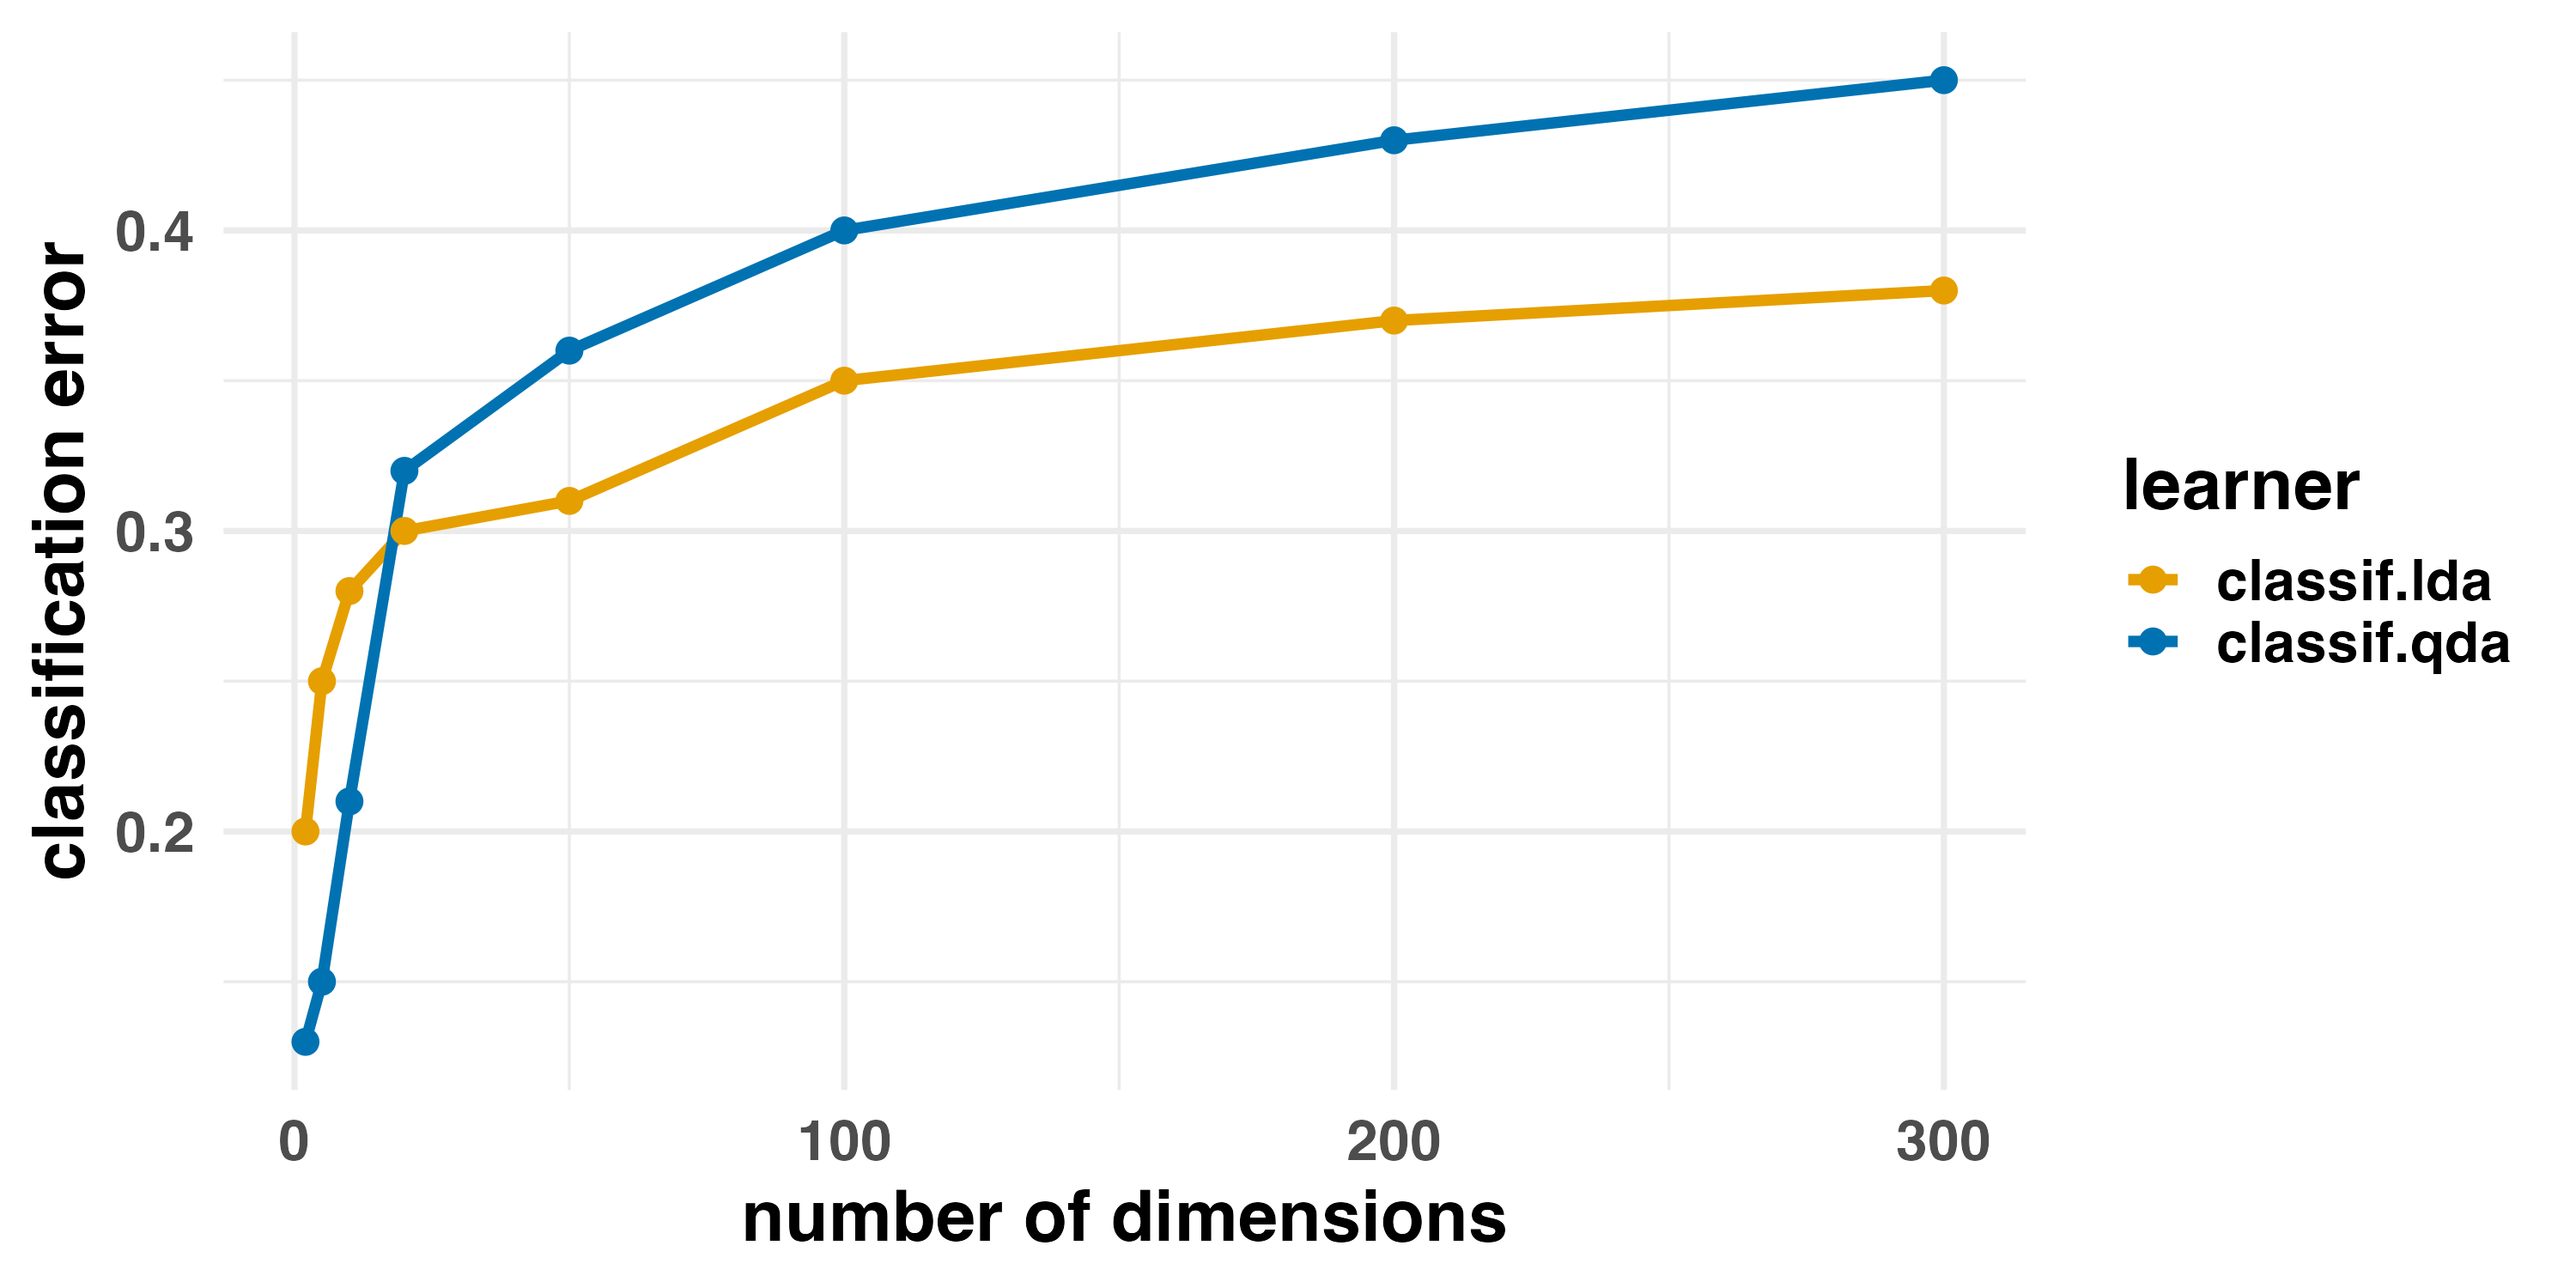
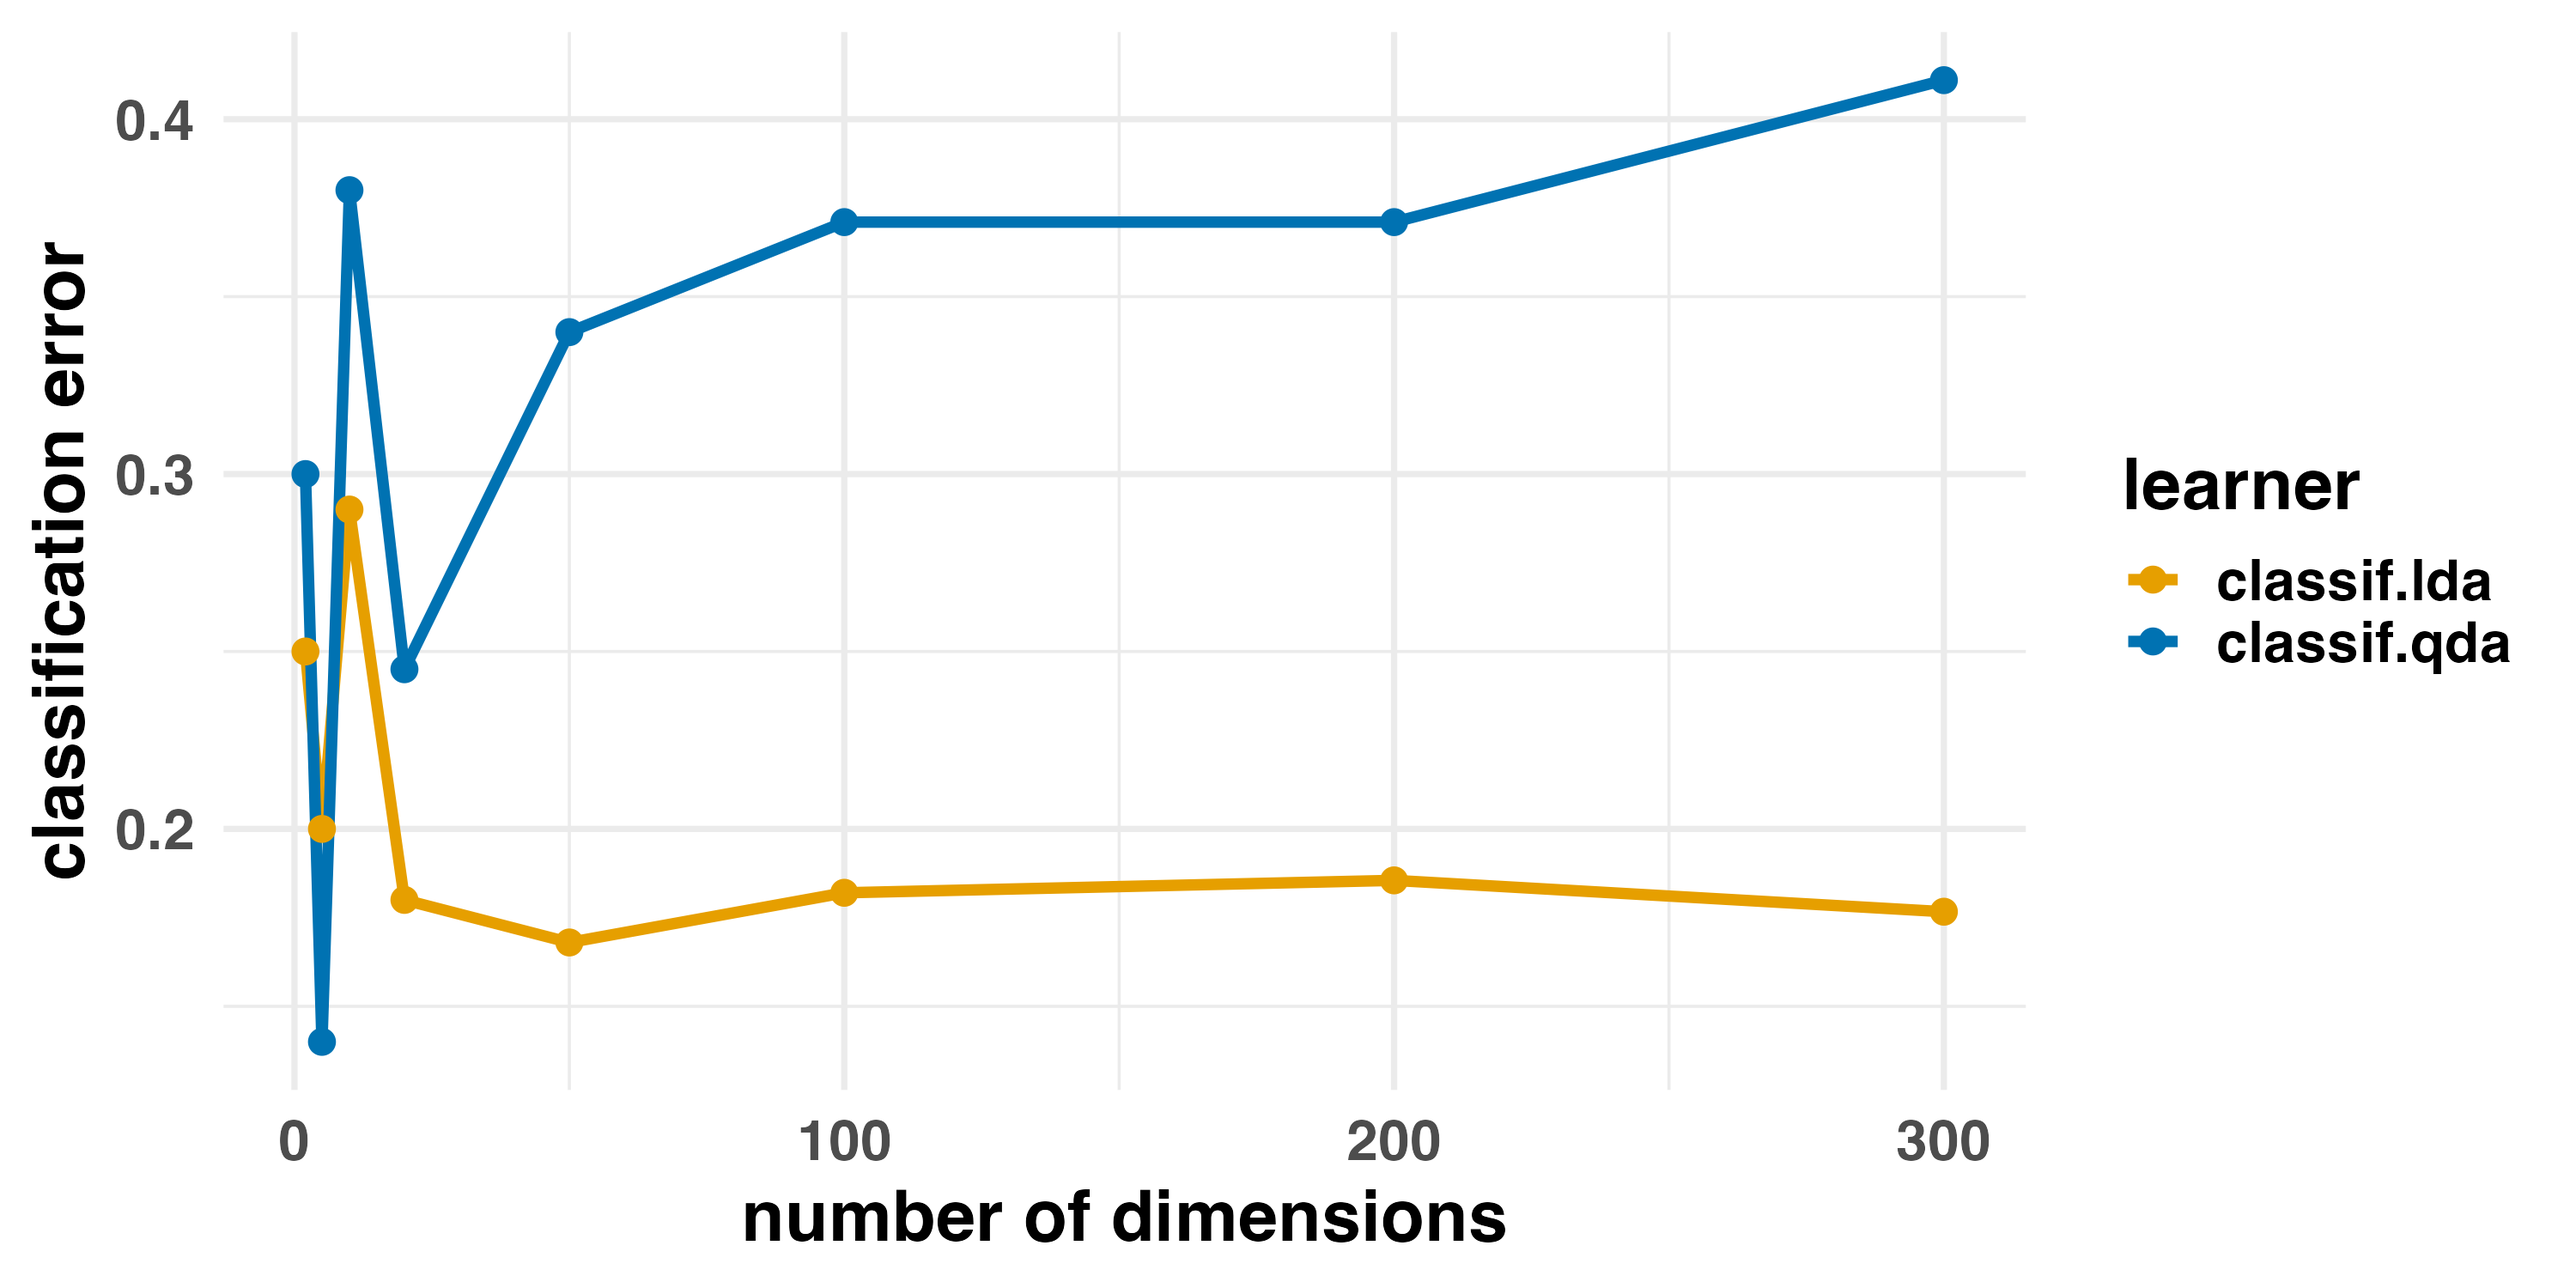
better example, updated cod

diff --git a/slides/supervised-classification/slides-classification-discranalysis.tex b/slides/supervised-classification/slides-classification-discranalysis.tex
@@ -83,7 +83,7 @@ and show that this can be written as a linear function of $\xv$.
   
 \end{vbframe}
 
-\begin{vbframe}{Proofing linearity of LDA}
+\begin{vbframe}{Proving linearity of LDA}
 \begin{eqnarray*}
 & \pik \cdot \pdfxyk \\
 \propto& \textcolor{orange}{\pik} \exp\left(\textcolor{blue}{- \frac{1}{2} \xv^T\Sigma^{-1}\xv} \textcolor{orange}{- \frac{1}{2} \muk^T \Sigma^{-1} \muk} + \xv^T \textcolor{purple}{\Sigma^{-1} \muk} \right) \\
@@ -146,24 +146,24 @@ Parameters are estimated in a straightforward manner by:\\
 
 \begin{vbframe}{Parameter estimation example}
 \begin{small}
-E.g., for a simple two-class, 2-dimensional dataset: \\
-Class 1: $\mathbf{x}_1 = \begin{pmatrix} 1 \\ 2 \end{pmatrix}, \mathbf{x}_2 = \begin{pmatrix} 2 \\ 3 \end{pmatrix}, \mathbf{x}_3 = \begin{pmatrix} 3 \\ 4 \end{pmatrix}$\\
-Class 2: $\mathbf{x}_4 = \begin{pmatrix} 6 \\ 8 \end{pmatrix}, \mathbf{x}_5 = \begin{pmatrix} 7 \\ 9 \end{pmatrix}, \mathbf{x}_6 = \begin{pmatrix} 8 \\ 10 \end{pmatrix}$
+E.g., for a simple two-class, 2-dimensional dataset:\\
+\lz
+Class 1: $\xv_1 = \begin{pmatrix} 1 \\ 2 \end{pmatrix}, \xv_2 = \begin{pmatrix} 2 \\ 3 \end{pmatrix} $
+Class 2: $\xv_3 = \begin{pmatrix} 6 \\ 8 \end{pmatrix}, \xv_4 = \begin{pmatrix} 7 \\ 9 \end{pmatrix}, \xv_5 = \begin{pmatrix} 8 \\ 10 \end{pmatrix}$
+\lz
+$$
+\pikh[1] = \frac{n_1}{n} = \frac{2}{5} = 0.4, \quad \pikh[2] = \frac{n_2}{n} = \frac{3}{5} = 0.6
+$$
 
-\[
-\hat{\pi}_1 = \frac{n_1}{n} = \frac{3}{6} = 0.5, \quad \hat{\pi}_2 = \frac{n_2}{n} = \frac{3}{6} = 0.5
-\]
+$$
+\mukh[1] = \frac{1}{2} \left( \xv_1 + \xv_2 \right) = \begin{pmatrix} 1.5 \\ 2.5 \end{pmatrix}, \quad
+\mukh[2] = \frac{1}{3} \left( \xv_3 + \xv_4 + \xv_5 \right) = \begin{pmatrix} 7 \\ 9 \end{pmatrix}
+$$
 
-\[
-\hat{\mu}_1 = \frac{1}{3} \left( \begin{pmatrix} 1 \\ 2 \end{pmatrix} + \begin{pmatrix} 2 \\ 3 \end{pmatrix} + \begin{pmatrix} 3 \\ 4 \end{pmatrix} \right) = \begin{pmatrix} 2 \\ 3 \end{pmatrix}, \hat{\mu}_2 = \frac{1}{3} \left( \begin{pmatrix} 6 \\ 8 \end{pmatrix} + \begin{pmatrix} 7 \\ 9 \end{pmatrix} + \begin{pmatrix} 8 \\ 10 \end{pmatrix} \right) = \begin{pmatrix} 7 \\ 9 \end{pmatrix}
-\]
 
-\[
-\hat{\Sigma}_1 = \frac{1}{2} \left( (\mathbf{x}_1 - \hat{\mu}_1)(\mathbf{x}_1 - \hat{\mu}_1)^T + (\mathbf{x}_2 - \hat{\mu}_1)(\mathbf{x}_2 - \hat{\mu}_1)^T + (\mathbf{x}_3 - \hat{\mu}_1)(\mathbf{x}_3 - \hat{\mu}_1)^T \right)
-\]
-\[
-= \frac{1}{2} \begin{pmatrix} 2 & 2 \\ 2 & 2 \end{pmatrix} = \begin{pmatrix} 1 & 1 \\ 1 & 1 \end{pmatrix}, \hat{\Sigma}_2 = \frac{1}{2} \begin{pmatrix} 2 & 2 \\ 2 & 2 \end{pmatrix} = \begin{pmatrix} 1 & 1 \\ 1 & 1 \end{pmatrix}
-\]
+From $(\xv_1 - \hat{\mu}_1)(\xv_1 - \hat{\mu}_1)^\top = \begin{pmatrix} 0.25 & 0.25 \\ 0.25 & 0.25 \end{pmatrix} = (\xv_2 - \hat{\mu}_1)(\xv_2 - \hat{\mu}_1)^\top$ follows $\Sigmah_1 = \frac{1}{1} \left(\begin{pmatrix} 0.25 & 0.25 \\ 0.25 & 0.25 \end{pmatrix} + \begin{pmatrix} 0.25 & 0.25 \\ 0.25 & 0.25 \end{pmatrix} \right) = \begin{pmatrix} 0.5 & 0.5 \\ 0.5 & 0.5 \end{pmatrix}$.
+
+Similarly $ \Sigmah_2 = \frac{1}{2} \left( \begin{pmatrix} 1 & 1 \\ 1 & 1 \end{pmatrix} + \begin{pmatrix} 0 & 0 \\ 0 & 0 \end{pmatrix} + \begin{pmatrix} 1 & 1 \\ 1 & 1 \end{pmatrix} \right) = \begin{pmatrix} 1 & 1 \\ 1 & 1 \end{pmatrix}$.
 \end{small}
 \end{vbframe}
 
@@ -192,11 +192,13 @@ Allowing for quadratic decision boundaries:
 \end{vbframe}
 
 \begin{vbframe}{Discriminant analysis comparison}
-Due to requiring less parameter estimates, LDA might be preferable over QDA in higher dimensions. Measuring the classification error on some toy data:
+Measuring the classification error on a toy binary classification task of increasing dimension, where data for each class are drawn from a multivariate normal distribution with the same mean and slight variations in covariane, followed by a small shift in up to 5 features for one class to create structure:
 
 \begin{center}
-\includegraphics[width=\textwidth, clip=true, trim={0 0 0 0}]{figure/disc_cod.png}
+\includegraphics[width=0.7\textwidth, clip=true, trim={0 0 0 0}]{figure/disc_cod.png}
 \end{center}
+
+$\Rightarrow$ LDA might be preferable over QDA in higher dimensions!
 
 \end{vbframe}
 \endlecture

diff --git a/latex-math/basic-ml.tex b/latex-math/basic-ml.tex
@@ -112,6 +112,8 @@
 
 % prior probabilities
 \newcommand{\pik}[1][k]{\pi_{#1}} % pi_k, prior
+\newcommand{\pih}{\hat{\pi}} % pi hat, estimated prior (binary classification)
+\newcommand{\pikh}[1][k]{\hat{\pi}_{#1}} % pi_k hat, estimated prior
 \newcommand{\lpik}[1][k]{\log \pi_{#1}} % log pi_k, log of the prior
 \newcommand{\pit}{\pi(\thetav)} % Prior probability of parameter theta
 
@@ -137,6 +139,7 @@
 % probababilistic
 \newcommand{\bayesrulek}[1][k]{\frac{\P(\xv | y= #1) \P(y= #1)}{\P(\xv)}} % Bayes rule
 \newcommand{\muk}[1][k]{\bm{\mu_{#1}}} % mean vector of class-k Gaussian (discr analysis)
+\newcommand{\mukh}[1][k]{\bm{\hat{\mu}_{#1}}} % estimated mean vector of class-k Gaussian (discr analysis)
 
 % residual and margin
 \newcommand{\eps}{\epsilon} % residual, stochastic
